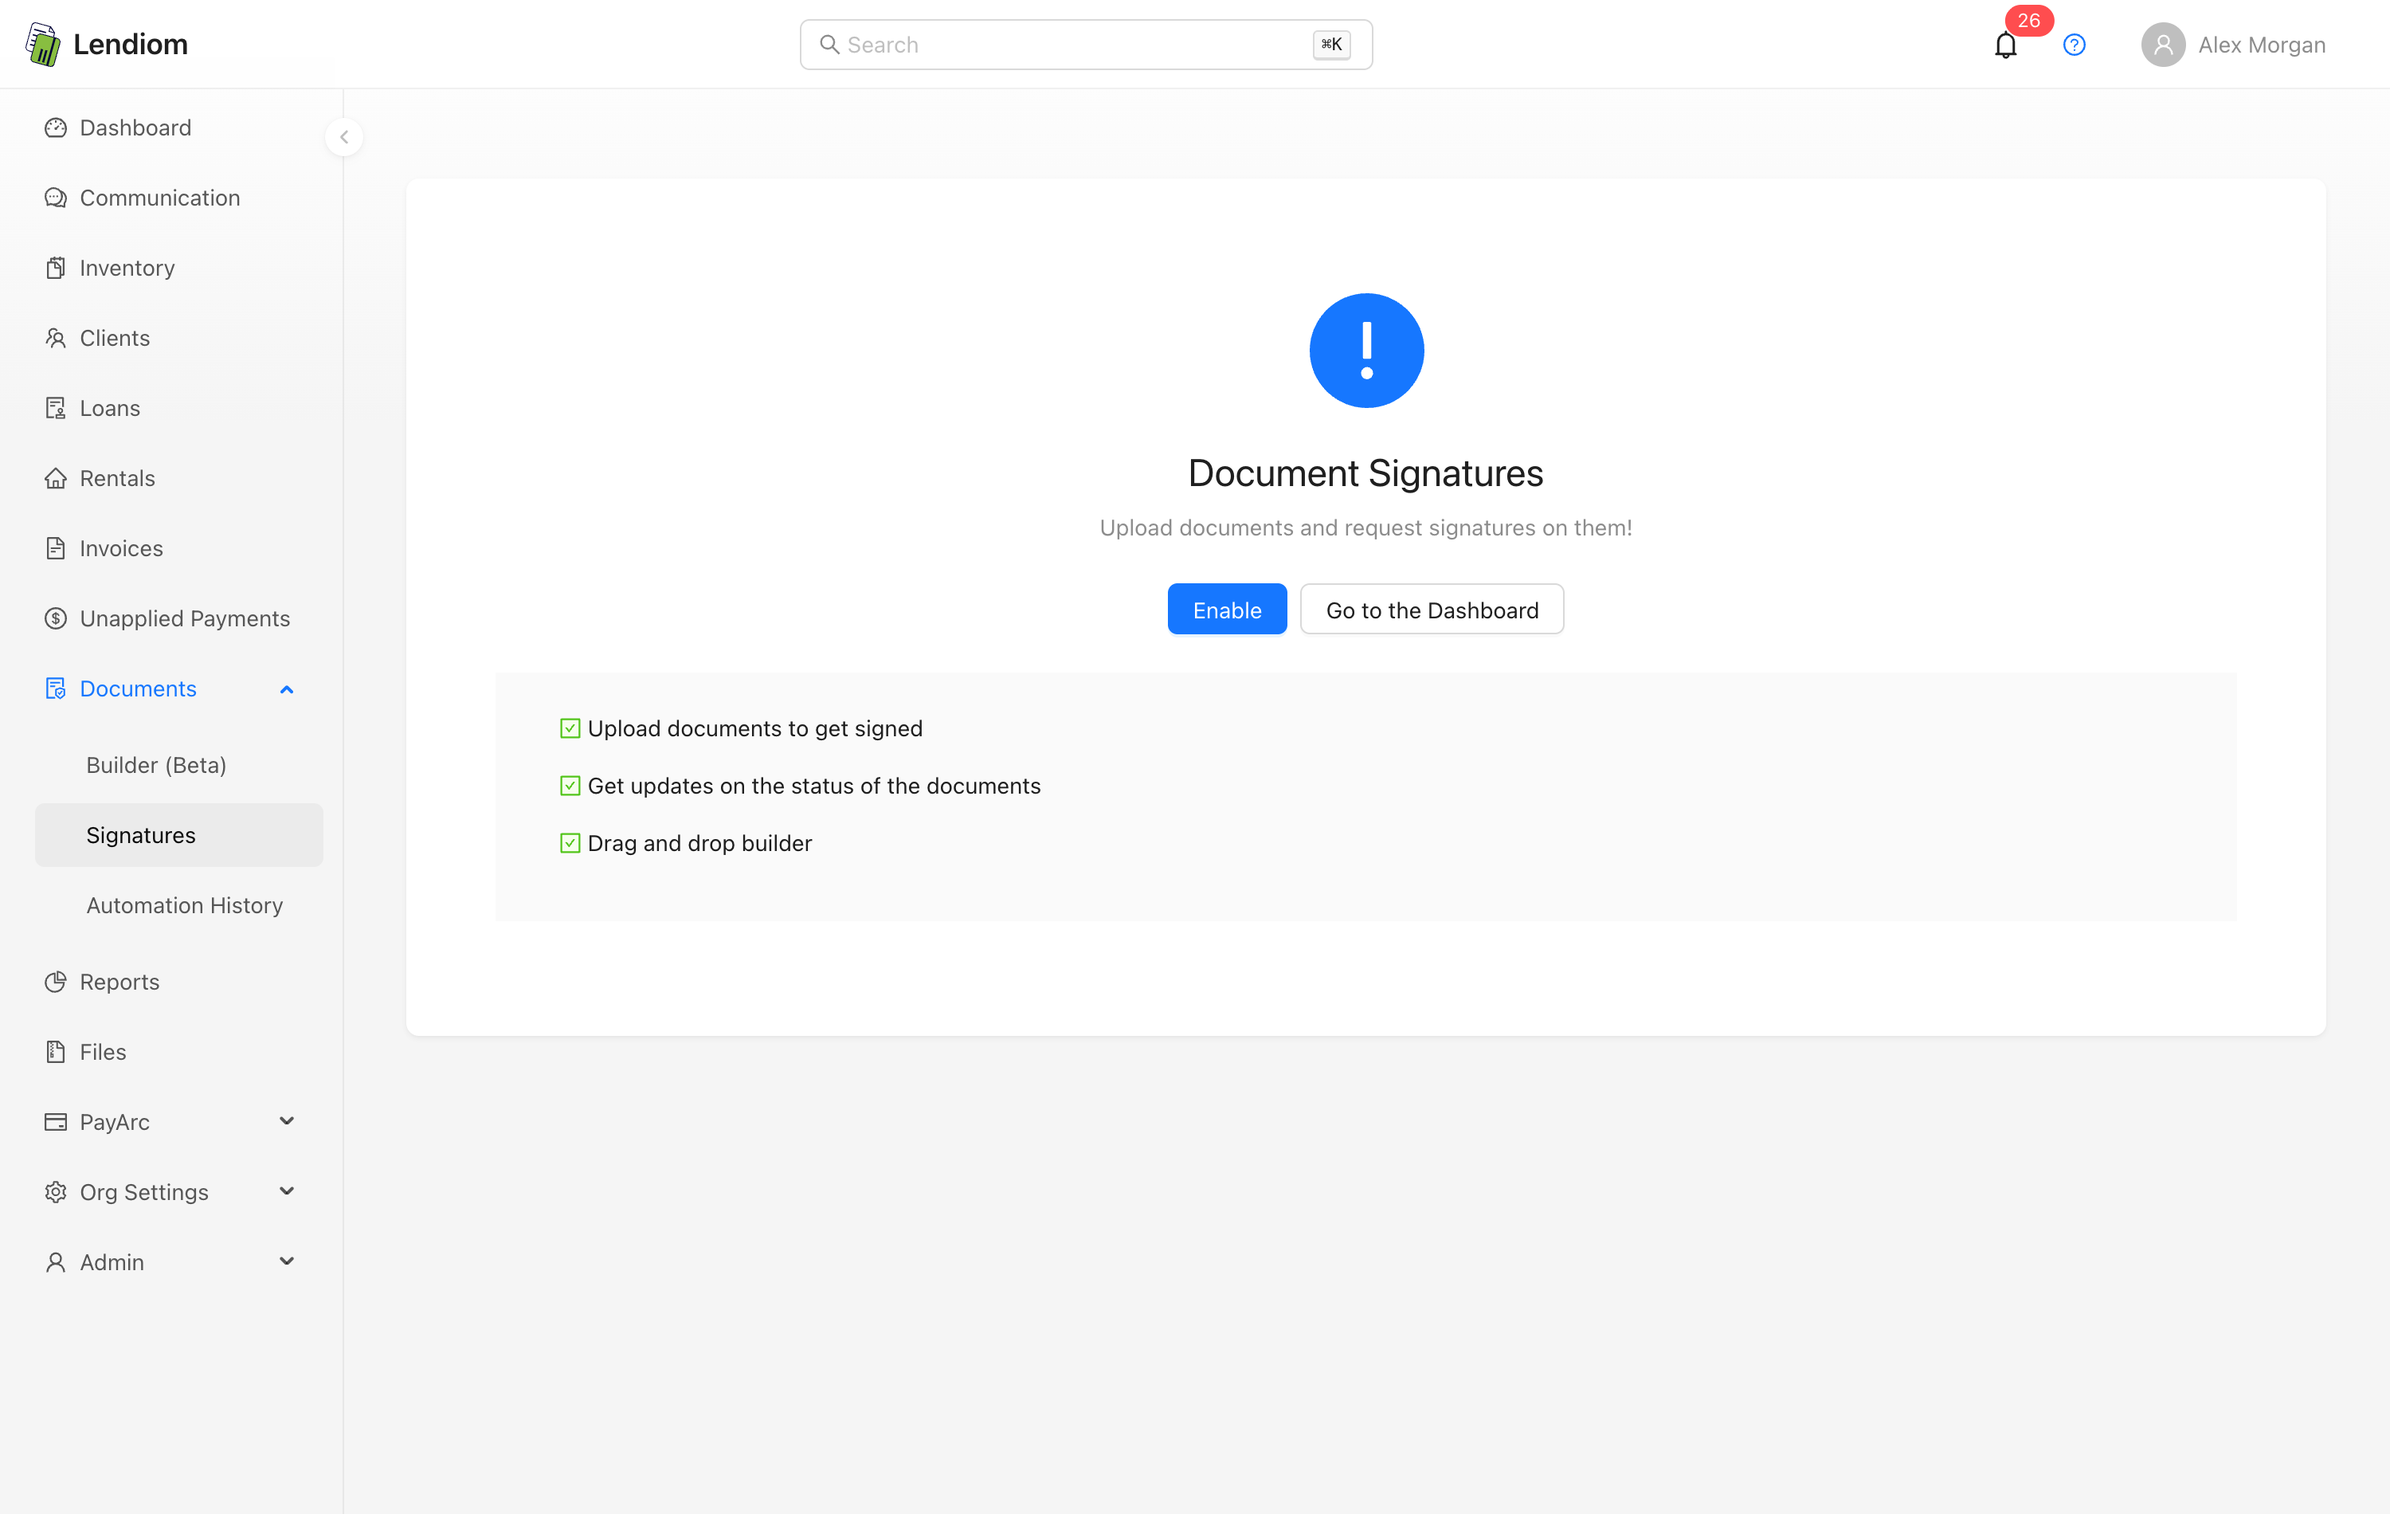
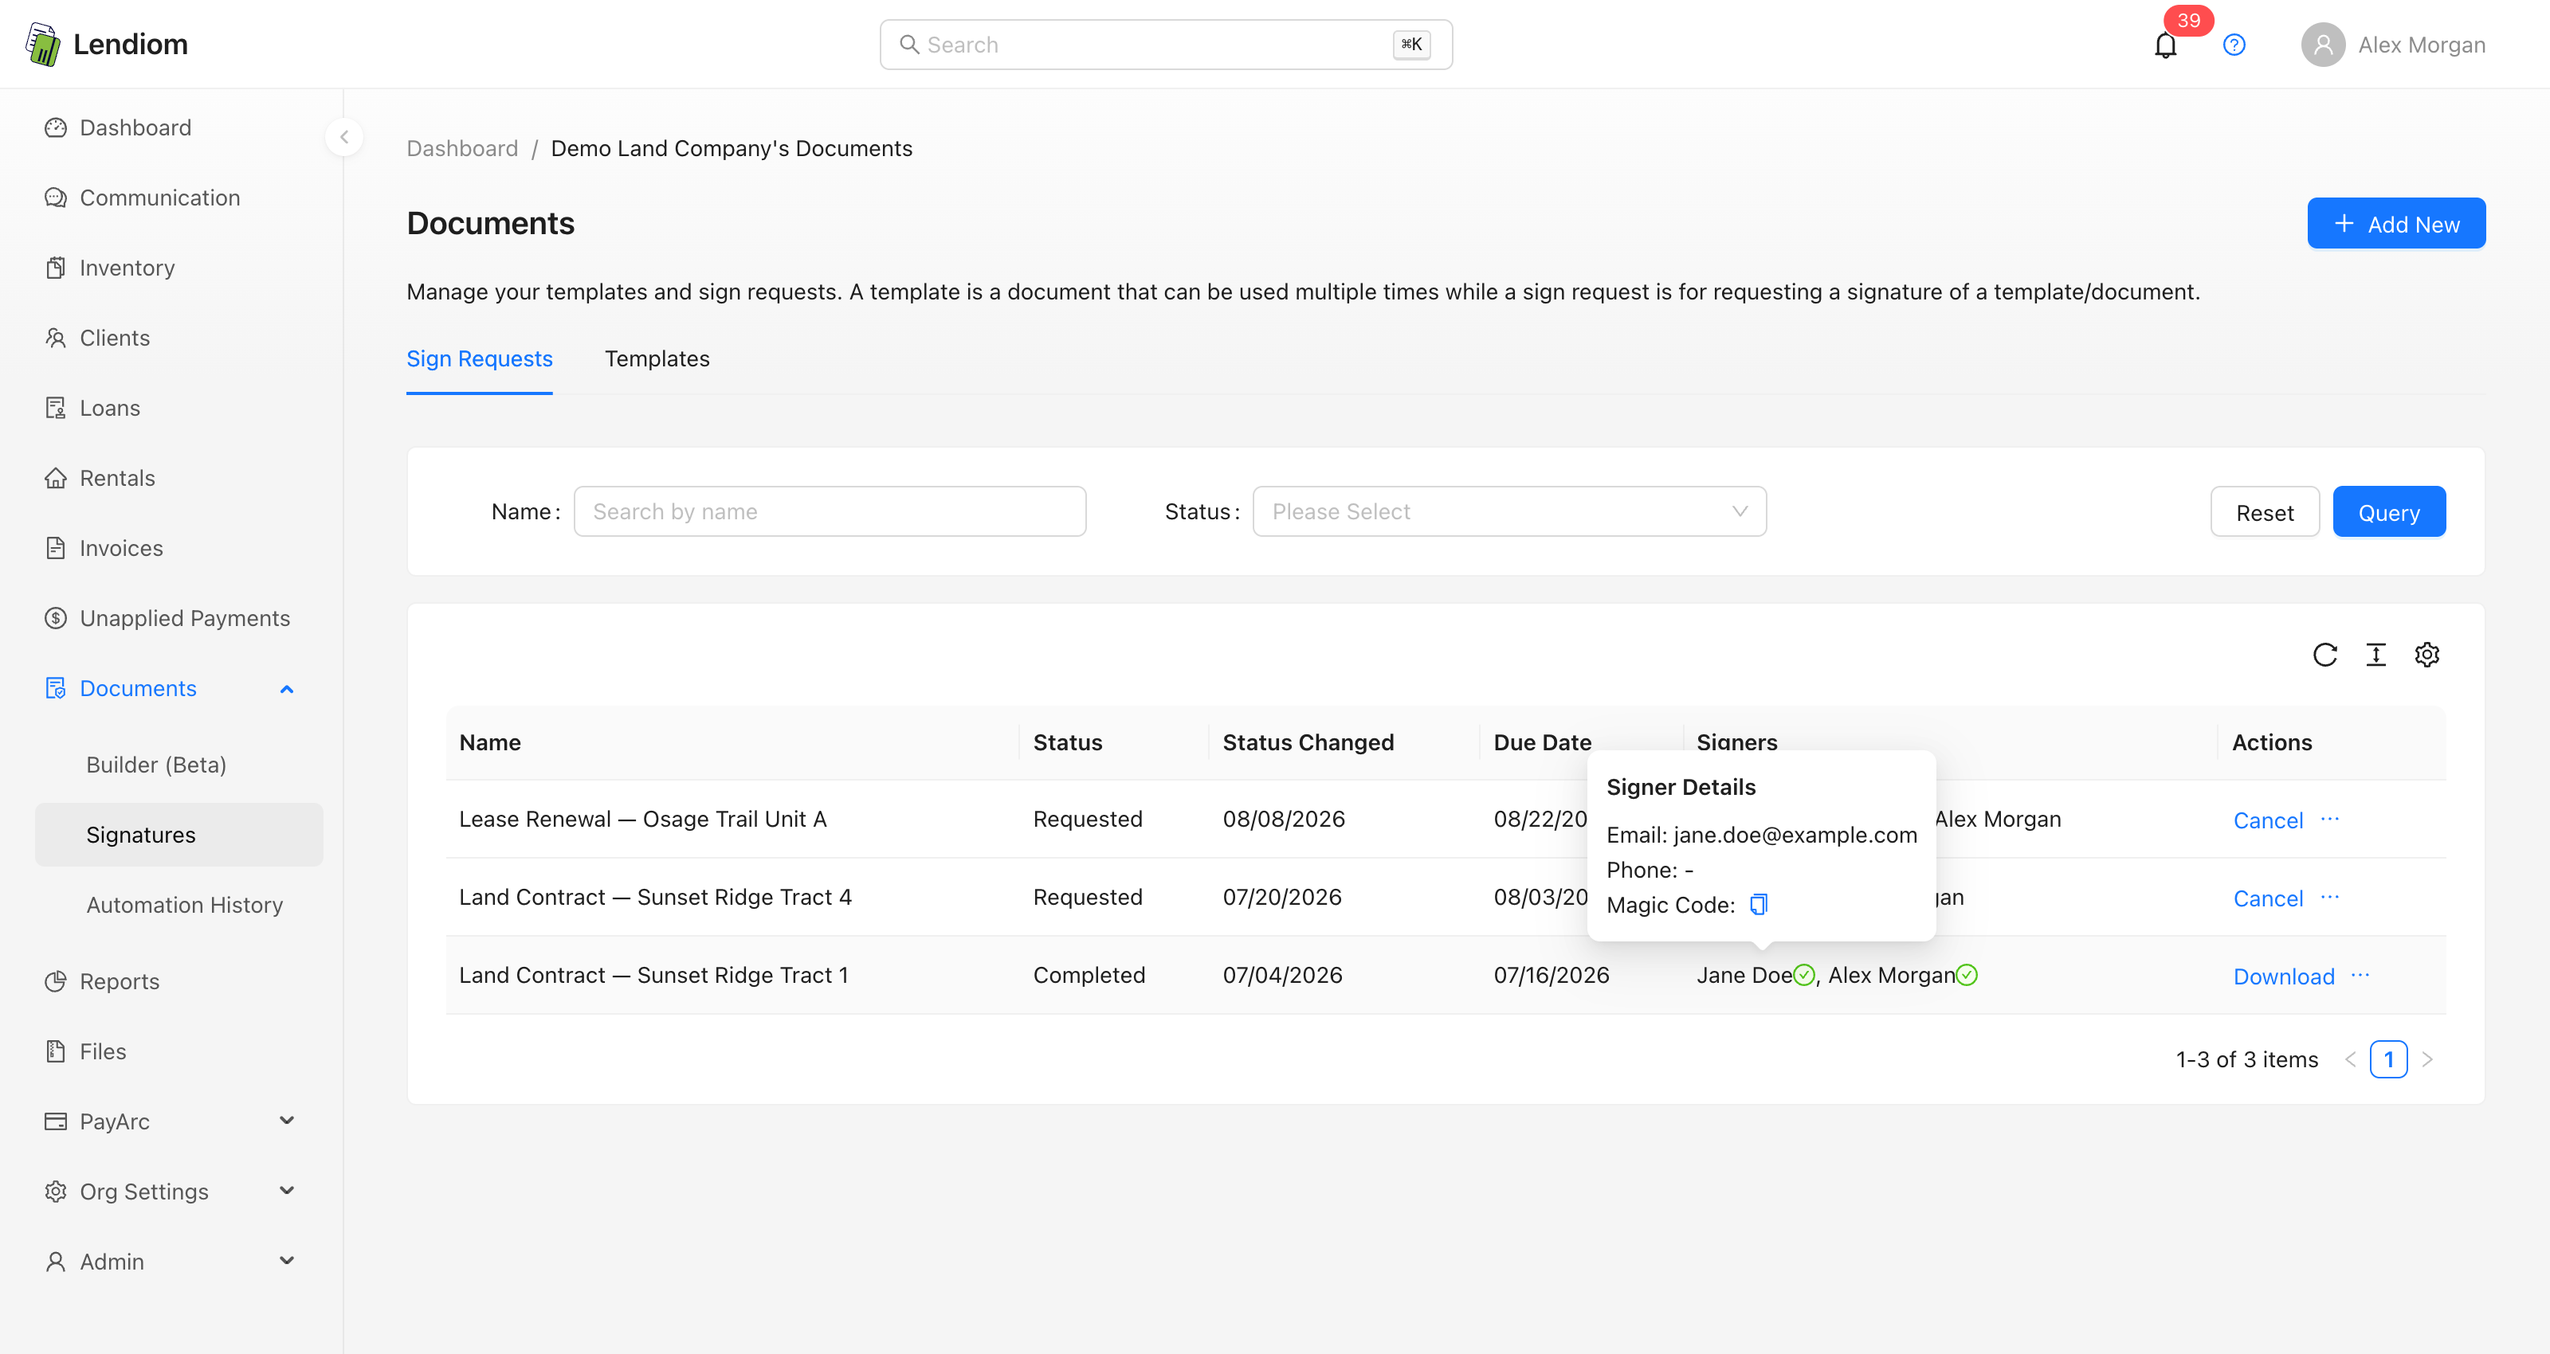
docs: capture the sign request screens
Seeds a template and three sign requests for the demo org — one completed,
two in flight — so the Sign Requests table, the signer details popover and
the Extend Sign Request modal all render.

This is entirely Lendiom-side state. No DocuSeal template, webhook or API
configuration is touched, since dev and demo share one DocuSeal account and
repointing anything there would hijack demo's completions.

diff --git a/docs/app/guides/after-you-send.md b/docs/app/guides/after-you-send.md
@@ -15,7 +15,7 @@ Each row is one request. Name, Status, Status Changed, Due Date, Signers, and Ac
 
 **Signers** lists everyone on the request, with a green check beside anyone who has finished. Click a name for a popover with that signer's email, phone, and the magic code they can use to reach the document.
 
-<!-- screenshot: The Signers column with a signer name clicked open, showing the "Signer Details" popover containing Email, Phone, and a copyable Magic Code -->
+![The Signers column on a sign request, with a signer opened to show their details](/img/docs/app/guides/after-you-send/01.png)
 
 ### Statuses
 
@@ -63,7 +63,7 @@ Once a request is Expired, Lendiom stops accepting signatures against it. Anythi
 
 **Extend** appears on Requested rows in the `...` menu, and directly in the Actions column on Expired rows. Completed and Canceled requests cannot be extended.
 
-<!-- screenshot: The Extend Sign Request modal with the "New Due Date" date-and-time picker filled in and the "Remind pending signers" toggle below it -->
+![The Extend Sign Request modal, with the new due date picker and the reminder option](/img/docs/app/guides/after-you-send/03.png)
 
 The modal asks for two things:
 
@@ -85,7 +85,7 @@ A completed request produces two files.
 | Signed document | **Download** — in the Actions column on a Completed row, in the `...` menu on an Expired one | Completed and Expired requests |
 | Audit log | **Download Audit Log** in the `...` menu | Completed requests only |
 
-<!-- screenshot: A Completed row in the Sign Requests table with the Download link in the Actions column and the `...` menu open showing "Download Audit Log" -->
+![The Sign Requests table with a completed row offering a Download link alongside the in-flight requests](/img/docs/app/guides/after-you-send/04.png)
 
 Both open in a new browser tab. The audit log records who opened, consented to, and signed the document, and when — keep it with the signed PDF.
 
